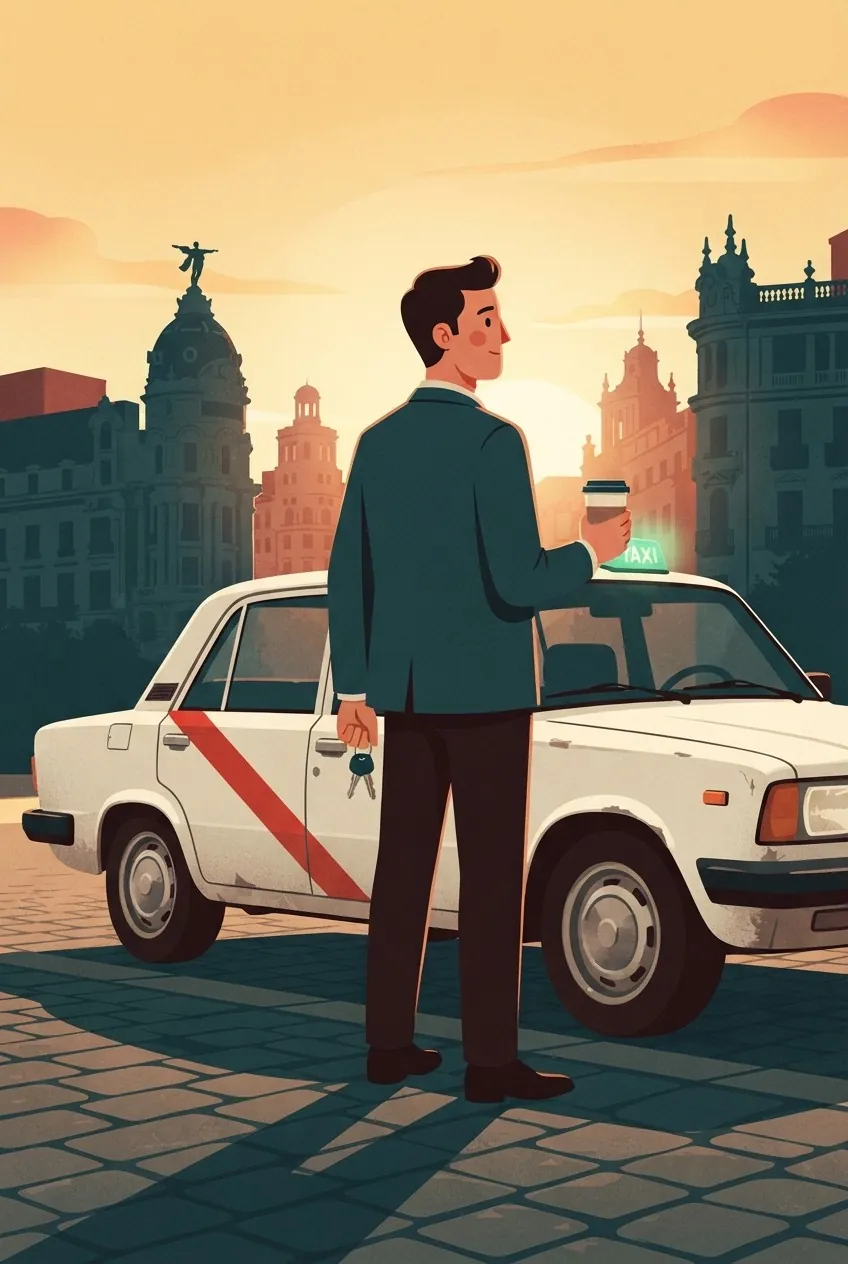
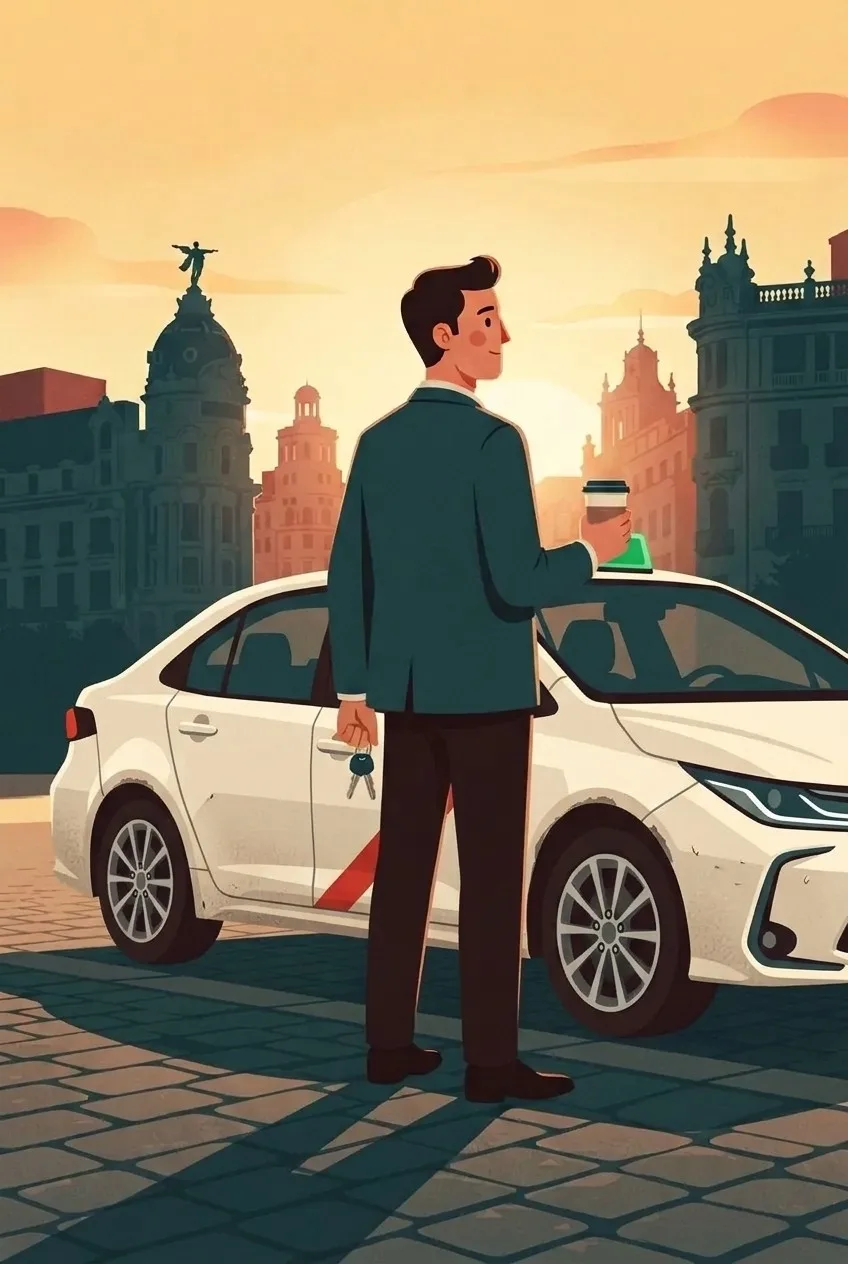
Introducción: la 3.ª escena con el Corolla
Claude-Session: https://claude.ai/code/session_01V2iRQ1otXhkcHck3527rkC

diff --git a/js/actualizaciones.js b/js/actualizaciones.js
@@ -685,6 +685,10 @@
         {
           "n": 152,
           "texto": "Más fotos en el grupo de la flota: la planta de Paconi, el bocadillo de El Pelado y el dibujo de Daniela. Ya están todas."
+        },
+        {
+          "n": 153,
+          "texto": "La última escena de la introducción ya enseña el Corolla, como dice el texto (antes salía un coche antiguo)."
         }
       ]
     }

diff --git a/docs/historial.md b/docs/historial.md
@@ -189,3 +189,4 @@ Todas las actualizaciones del juego, numeradas (las pequeñas, agrupadas). Es el
 150. Los eventos «¡Que viene!», «El maletín» y «Noche de final» ya tienen su ilustración. En el grupo de la flota, Paconi estrena mensajes (pide que le rieguen la planta, se pega con un árbol «bien engañoso», pide un adelanto del sueldo y nota el coche bailongo), y las fotos del pinchazo y del árbol serán del coche de quien las manda.
 151. El grupo de la flota estrena fotos: el pinchazo, el coche de Paconi contra el árbol y un amanecer desde el taxi. Y Paconi pide que le rieguen la planta a todos: «muchachos».
 152. Más fotos en el grupo de la flota: la planta de Paconi, el bocadillo de El Pelado y el dibujo de Daniela. Ya están todas.
+153. La última escena de la introducción ya enseña el Corolla, como dice el texto (antes salía un coche antiguo).

diff --git a/imagenes/LEEME.md b/imagenes/LEEME.md
@@ -7,7 +7,8 @@ la tapa el texto.
 
 - `intro-1.webp`, `intro-2.webp`, `intro-3.webp`: las tres escenas de la
   introducción (`config.historia.intro`), 848 × 1264, de 41 a 63 KB. Si
-  falta una, el juego enseña un fondo azul provisional con «Ilustración N».
+  falta una, el juego enseña un fondo azul provisional con «Ilustración N». La 3.ª se
+  rehízo el 26-11-2026 con el Corolla (antes salía un coche antiguo).
 - `unico-<id>.webp`: retrato de cada conductor ÚNICO
   (`config.conductores.unicos.<id>.imagen`), cuadrado, 256 × 256 (se ve en
   círculos de 36 a 88 px). `unico-paconi.webp`: Paconi; `unico-pelado.webp`: El Pelado;
